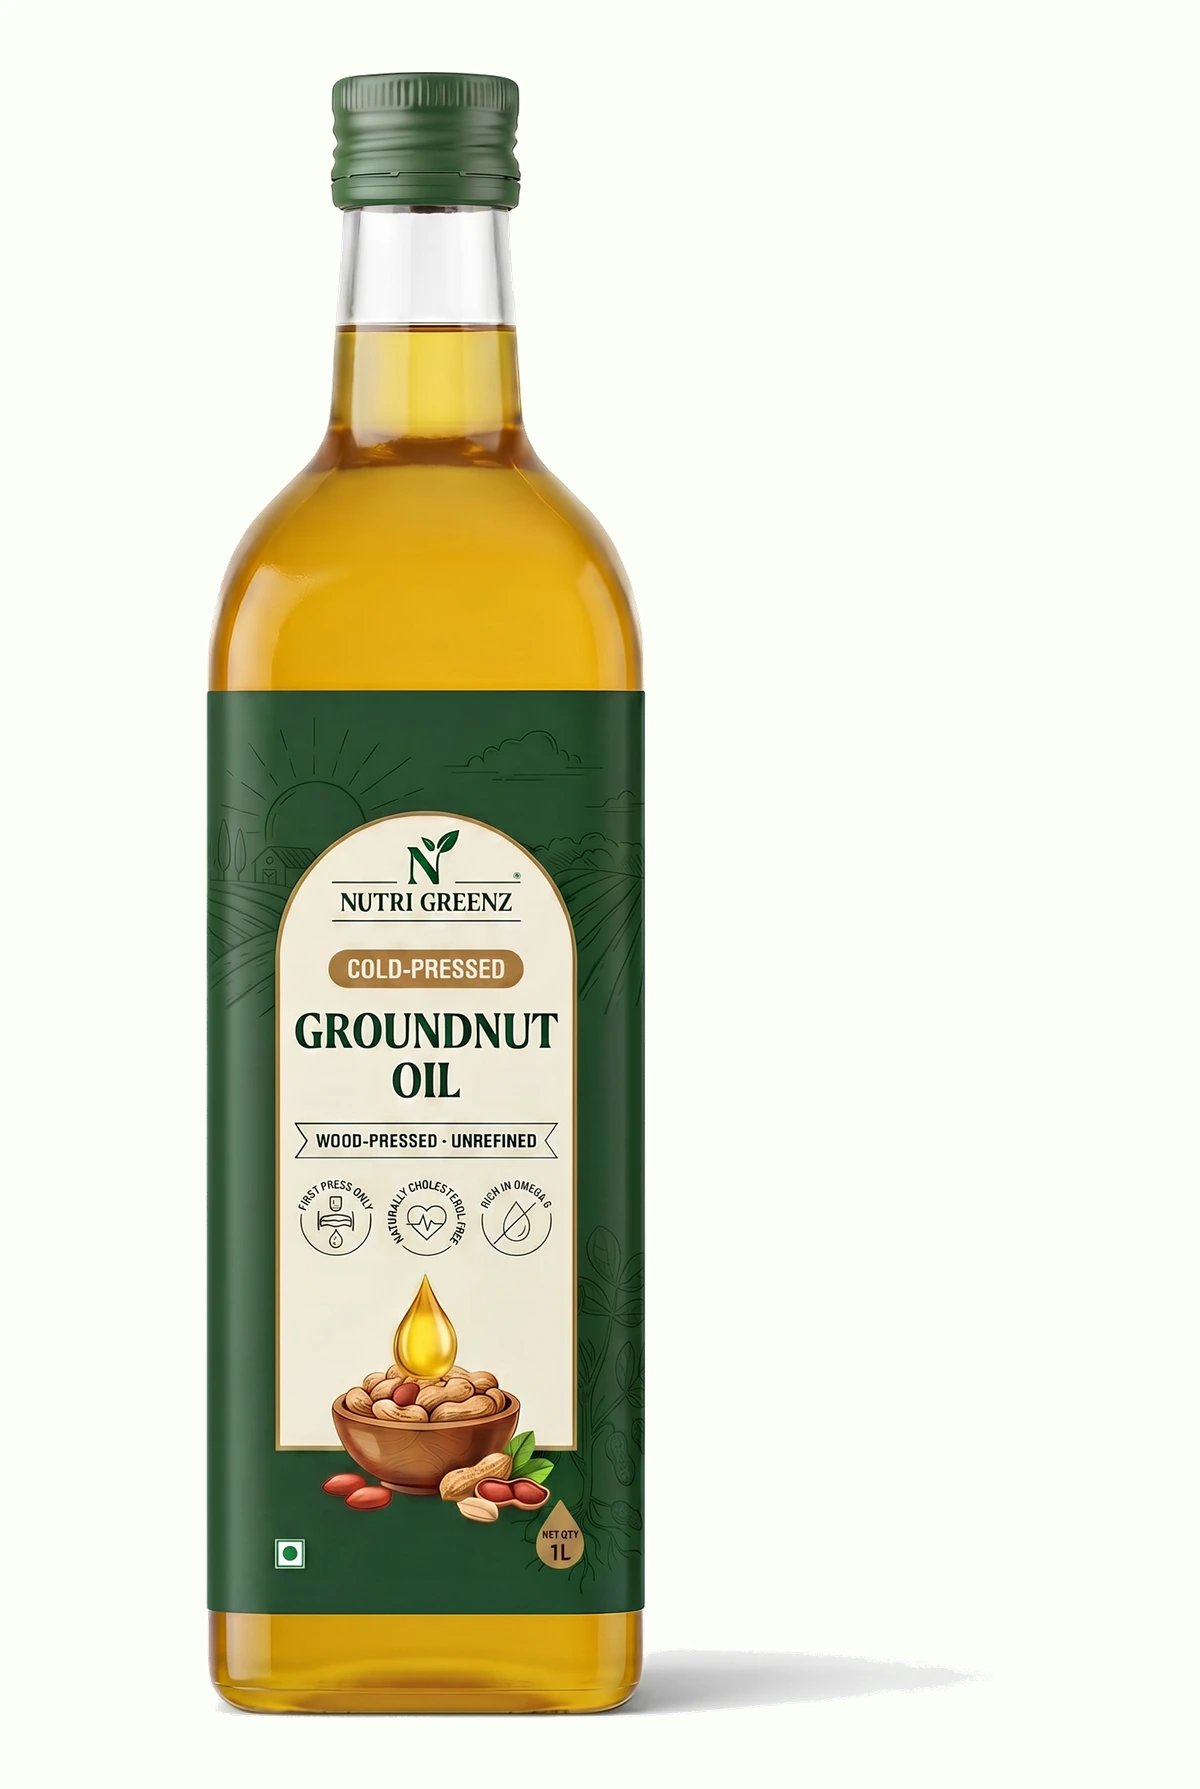
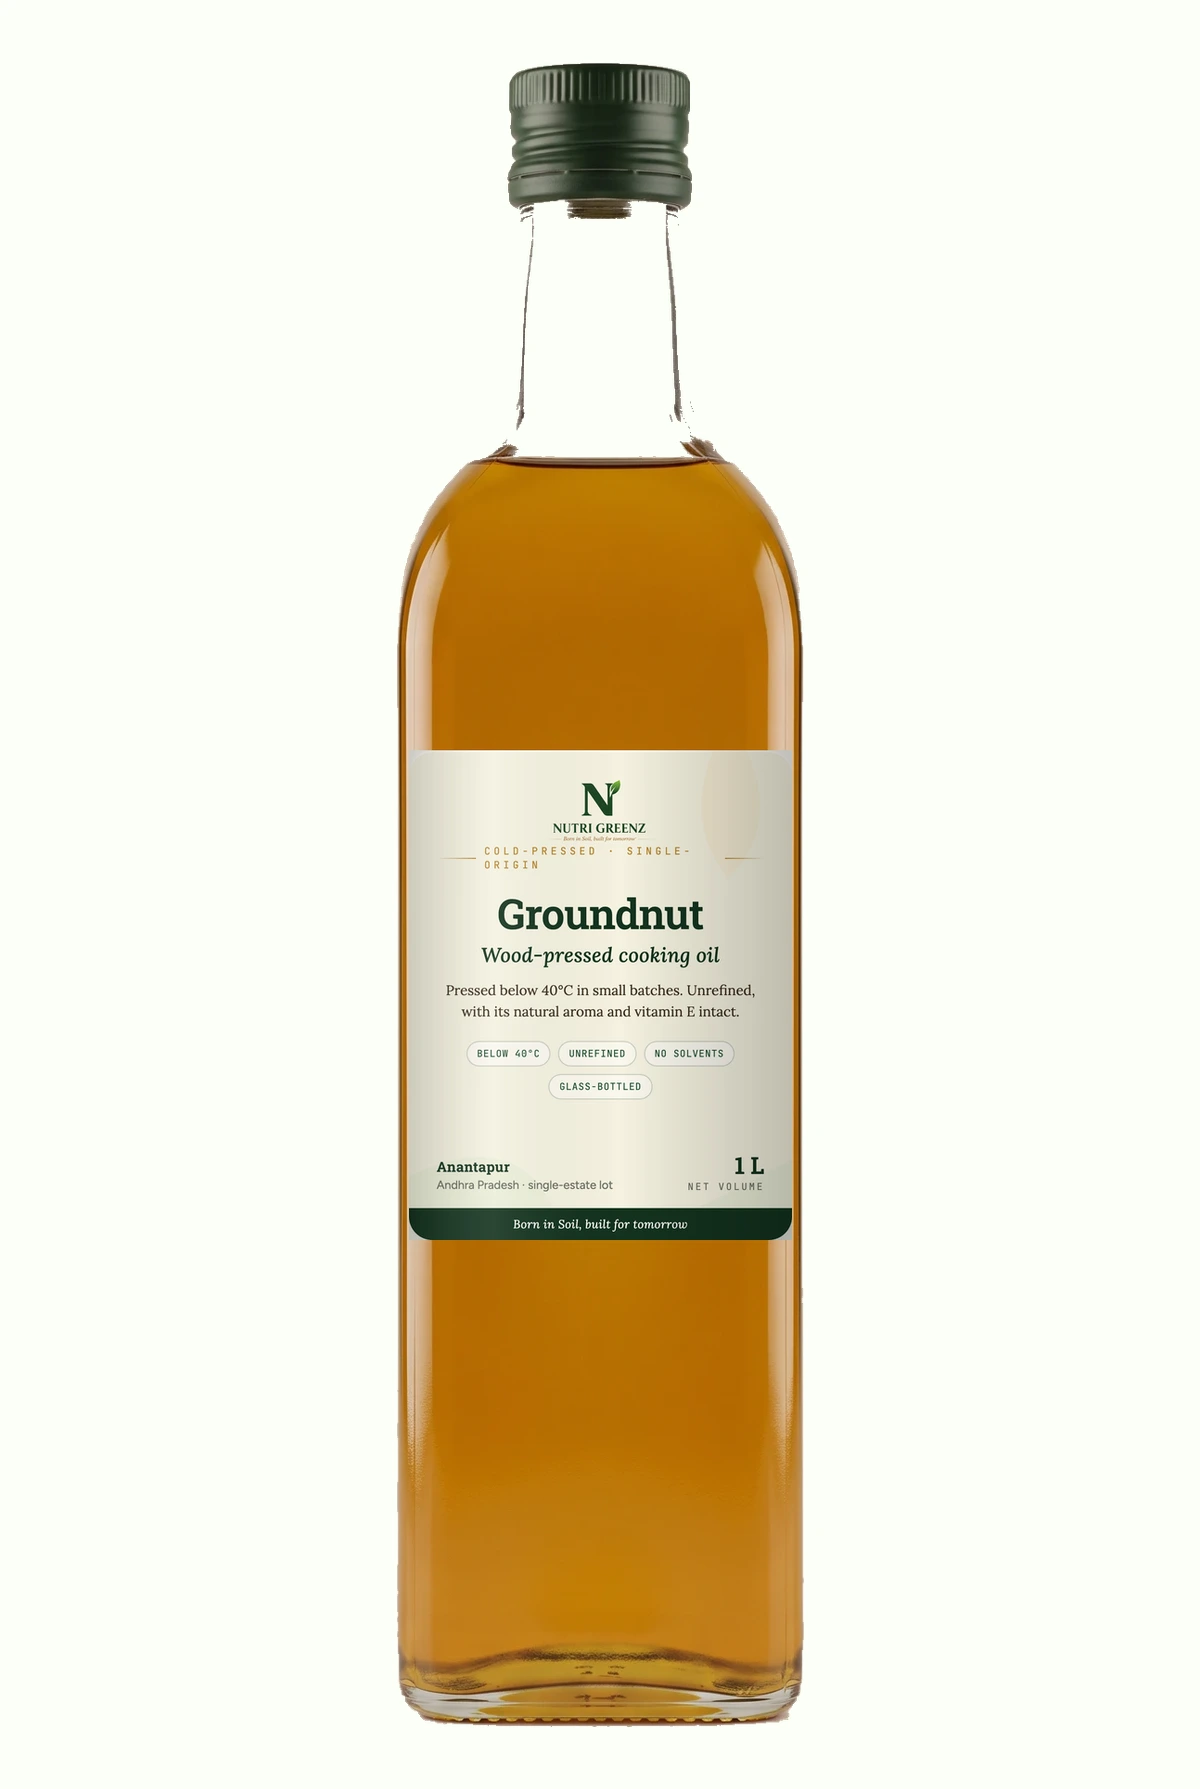
Carry the current label onto the last two groundnut surfaces
The PDP gallery moved to label C but two references outside it did not, so
the same page still showed the previous pack further down.

groundnut.webp is rebuilt from the label-C master, keeping the 1200x1789
near-white framing sesame and coconut already use so the range still reads as
one set. It feeds the "Cold-pressed below 40C" card and the product-in-focus
strip on the home page.

groundnut-side.webp is gone from the content sections. It was never the same
product: a different bottle, a different colour, and label text that does not
resolve at any size. The kitchen panel takes its place.

diff --git a/src/components/ng/pdp/pdp-content.ts b/src/components/ng/pdp/pdp-content.ts
@@ -224,7 +224,9 @@ const OILS: PdpCategoryContent = {
       { key: "Everyday sautéing — ", rest: "a healthy fat for stir-fries and shallow frying." },
       { key: "Oil pulling & massage — ", rest: "coconut and sesame double up beautifully for skin and hair." },
     ],
-    image: { src: `${OILS_IMG}/groundnut-side.webp`, alt: "Cold-pressed oil bottle — pack and label detail" },
+    // Was groundnut-side.webp — a different bottle in a different colour with
+    // unreadable label text. Replaced with the current pack in the kitchen.
+    image: { src: `${OILS_IMG}/gallery/gn-c-usage.webp`, alt: "Cold-pressed groundnut oil on an Indian kitchen counter" },
   },
   faq: [
     { q: "What does 'cold-pressed' actually mean?", a: "The seed is crushed mechanically at low temperature (below 40°C) without chemical solvents. That keeps the natural antioxidants, aroma and vitamin E that high-heat refining strips out." },
